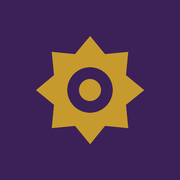
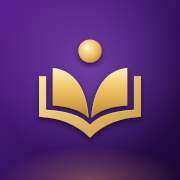
أيقونة موحدة جديدة (كتاب مفتوح ذهبي على بنفسجي): أيقونات الموبايل والمتصفح، شاشة البداية، وشعار الرئيسية
Claude-Session: https://claude.ai/code/session_01LTP3Jiietw1dYEJdSksJ5z

diff --git a/index.html b/index.html
@@ -7,8 +7,8 @@
 <meta name="theme-color" content="#120e17" media="(prefers-color-scheme: dark)">
 <meta name="description" content="مداد — ابحث عن الكتب واقرأها، والأولوية للكتاب العربي">
 <link rel="manifest" href="manifest.webmanifest">
-<link rel="icon" href="icons/icon-192.png">
-<link rel="apple-touch-icon" href="icons/apple-touch-icon.png">
+<link rel="icon" href="icons/icon-192.png?v=2">
+<link rel="apple-touch-icon" href="icons/apple-touch-icon.png?v=2">
 <meta name="apple-mobile-web-app-capable" content="yes">
 <meta name="mobile-web-app-capable" content="yes">
 <meta name="apple-mobile-web-app-title" content="مداد">
@@ -1215,6 +1215,11 @@ input:not([type=range]):not([type=checkbox]):not([type=radio]),textarea,select{f
 .qframe .qfm{justify-self:start;line-height:1.5;white-space:nowrap}.qframe h3+.qfm{justify-self:end}
 .qframe h3{font:700 clamp(21px,6.6vw,29px)/1.75 "Amiri",serif!important;padding:0 4px;margin:-.12em 0 0!important;letter-spacing:0;color:var(--qgold2);text-shadow:0 2px 10px rgb(0 0 0/.35);white-space:nowrap}
 @media (max-width:360px){.qframe h3{font-size:25px!important}.qframe{padding:10px 14px!important}}
+
+/* الأيقونة الموحدة: نفس أيقونة التطبيق بشاشة البداية والشعار */
+.splash{background:radial-gradient(90% 60% at 50% 40%,#4a1d78,#1a0632)}
+.slogo{display:block;width:118px;height:118px;margin:0 auto 18px;border-radius:27px;box-shadow:0 22px 48px -10px rgb(0 0 0/.6),0 0 0 1px rgb(195 140 242/.25)}
+.lgimg{width:38px;height:38px;border-radius:10px;box-shadow:0 4px 10px -3px rgb(52 16 94/.45)}
 </style>
 <link rel="stylesheet" href="fonts/ph.css">
 </head>
@@ -1223,7 +1228,7 @@ input:not([type=range]):not([type=checkbox]):not([type=radio]),textarea,select{f
 <pattern id="pt" width="34" height="34" patternUnits="userSpaceOnUse"><path d="M17 3l4 8 8-4-4 8 8 4-8 4 4 8-8-4-4 8-4-8-8 4 4-8-8-4 8-4-4-8 8 4z" fill="rgb(255 240 200/.11)"/></pattern>
 </defs></svg>
 <div class="app" id="app">
-  <div class="splash" id="splash"><div><div class="book"><span class="l"></span><span class="r"></span><span class="pg"></span><span class="pg"></span><i class="ph-fill ph-feather"></i></div><b>مداد</b><span style="opacity:.75">مكتبتك العربية</span></div></div>
+  <div class="splash" id="splash"><div><img class="slogo" src="icons/icon-512.png?v=2" alt=""><b>مداد</b><span style="opacity:.75">مكتبتك العربية</span></div></div>
   <div class="sfill" aria-hidden="true"></div>
   <main id="view"></main>
   <nav class="nav" id="nav"><span class="npill" id="npill" aria-hidden="true"></span>
@@ -1871,7 +1876,7 @@ function home(){
  const hero=reading.length?reading.slice(0,3).map(b=>{const e=S.lib[b.id];return `<div class="hero">${cover(b)}<div><span class="badge"><i class="ph-fill ph-book-open"></i>أكمل القراءة</span><h3>${esc(b.t)}</h3><div class="mut">${esc(b.a||srcOf(b.src)?.n||'')}</div>${b.kind==='wiki'||e.pages?`<div class="bar"><b style="width:${pctOf(b.id)}%"></b></div><div class="mut">${e.pages?`صفحة ${ar(e.p)} من ${ar(e.pages)}${e.parts>1?` · الجزء ${ar((e.part||0)+1)} من ${ar(e.parts)}`:''}`:''} · ${ar(pctOf(b.id))}٪</div>`:'<div class="mut" style="margin-top:8px">يُقرأ بقارئ المصدر</div>'}<button class="btn" style="margin-top:12px" data-read="${esc(b.id)}"><i class="ph-fill ph-book-open-text"></i>تابع القراءة</button></div></div>`}).join('')
   :`<div class="hero"><div class="cv" style="--c1:#c79a2e;--c2:#6b4a12"><b>مداد</b><i>مكتبتك</i></div><div><span class="badge"><i class="ph-fill ph-sparkle"></i>مرحباً بك</span><h3>ملايين الكتب بين يديك</h3><div class="mut">ابحث في ويكي مصدر وأرشيف الإنترنت وOpen Library وGutenberg من مكان واحد.</div><button class="btn" style="margin-top:12px" data-tab="explore" data-focus="1"><i class="ph-bold ph-magnifying-glass"></i>ابدأ البحث</button></div></div>`;
  const n=reading.length||1;
- return `<div class="top"><div class="logo"><i><i class="ph-fill ph-feather"></i></i>مداد</div><span class="mut greet"><i class="ph-duotone ph-${h<12?'sun-horizon':h<18?'sun':'moon-stars'}"></i>${h<12?'صباح الخير':h<18?'نهارك سعيد':'مساء الخير'}</span></div>
+ return `<div class="top"><div class="logo"><img class="lgimg" src="icons/icon-192.png?v=2" alt="">مداد</div><span class="mut greet"><i class="ph-duotone ph-${h<12?'sun-horizon':h<18?'sun':'moon-stars'}"></i>${h<12?'صباح الخير':h<18?'نهارك سعيد':'مساء الخير'}</span></div>
  ${installCard()}
  <button class="qcard" data-act="qopen"><span class="qstar"><i class="ph-fill ph-book-open"></i></span><span><b>القرآن الكريم</b><small>١١٤ سورة · تلاوات مرتّلة ومجوّدة وتعليمية · تفاسير</small></span><i class="ph-bold ph-caret-left"></i></button><button class="qcard njcard" data-act="nahj"><span class="qstar"><i class="ph-fill ph-scroll"></i></span><span><b>نهج البلاغة</b><small>المتن · ٢٠ كتاباً بين شرح ودراسة مع شرح محتوى كل كتاب</small></span><i class="ph-bold ph-caret-left"></i></button><button class="qcard mfcard" data-mfhome="1"><span class="qstar"><i class="ph-fill ph-key"></i></span><span><b>مفاتيح الجنان</b><small>الأدعية · الزيارات · أعمال الشهور والأيام</small></span><i class="ph-bold ph-caret-left"></i></button>
  <button class="sbar" data-tab="explore" data-focus="1"><i class="ph-duotone ph-magnifying-glass"></i>ابحث في ${ar(enabled().length)} مصادر…</button>
@@ -1959,7 +1964,7 @@ const FONTS=[['eKalem','كالم'],['Amiri','أميري'],['Noto Naskh Arabic','
 
 let deferred=null;const standalone=()=>matchMedia('(display-mode: standalone)').matches||navigator.standalone;
 const isIOS=/iphone|ipad|ipod/i.test(navigator.userAgent);
-const installCard=()=>{let dis=false;try{dis=localStorage.getItem('midad-inst')==='x'}catch(e){}if(standalone()||dis||!(deferred||isIOS))return '';return `<div class="inst on"><img src="icons/icon-192.png" alt=""><div><b>ثبّت مداد على شاشتك</b><br>${deferred?'يفتح مثل التطبيق':'اضغط زر المشاركة ⬆ ثم «إضافة إلى الشاشة الرئيسية»'}</div>${deferred?'<button class="btn" data-act="install" style="min-height:38px;padding:0 14px">تثبيت</button>':''}<button class="x" data-act="instx" aria-label="إغلاق">✕</button></div>`};
+const installCard=()=>{let dis=false;try{dis=localStorage.getItem('midad-inst')==='x'}catch(e){}if(standalone()||dis||!(deferred||isIOS))return '';return `<div class="inst on"><img src="icons/icon-192.png?v=2" alt=""><div><b>ثبّت مداد على شاشتك</b><br>${deferred?'يفتح مثل التطبيق':'اضغط زر المشاركة ⬆ ثم «إضافة إلى الشاشة الرئيسية»'}</div>${deferred?'<button class="btn" data-act="install" style="min-height:38px;padding:0 14px">تثبيت</button>':''}<button class="x" data-act="instx" aria-label="إغلاق">✕</button></div>`};
 addEventListener('beforeinstallprompt',e=>{e.preventDefault();deferred=e;if(tab==='home')render()});
 addEventListener('appinstalled',()=>{deferred=null;toast('تم تثبيت مداد ✓');render()});
 

diff --git a/sw.js b/sw.js
@@ -1,5 +1,5 @@
 // مداد — يشتغل بدون إنترنت بعد أول فتح
-const CACHE = 'midad-v76';
+const CACHE = 'midad-v77';
 const CORE = ['./', './index.html', './manifest.webmanifest', './icons/icon-192.png', './icons/icon-512.png', './icons/apple-touch-icon.png', './fonts/ph.css', './daily.json', './fonts/ekalem.woff', './fonts/Phosphor.woff', './fonts/Phosphor-Bold.woff', './fonts/Phosphor-Fill.woff', './fonts/Phosphor-Duotone.woff'];
 
 self.addEventListener('install', e => {
